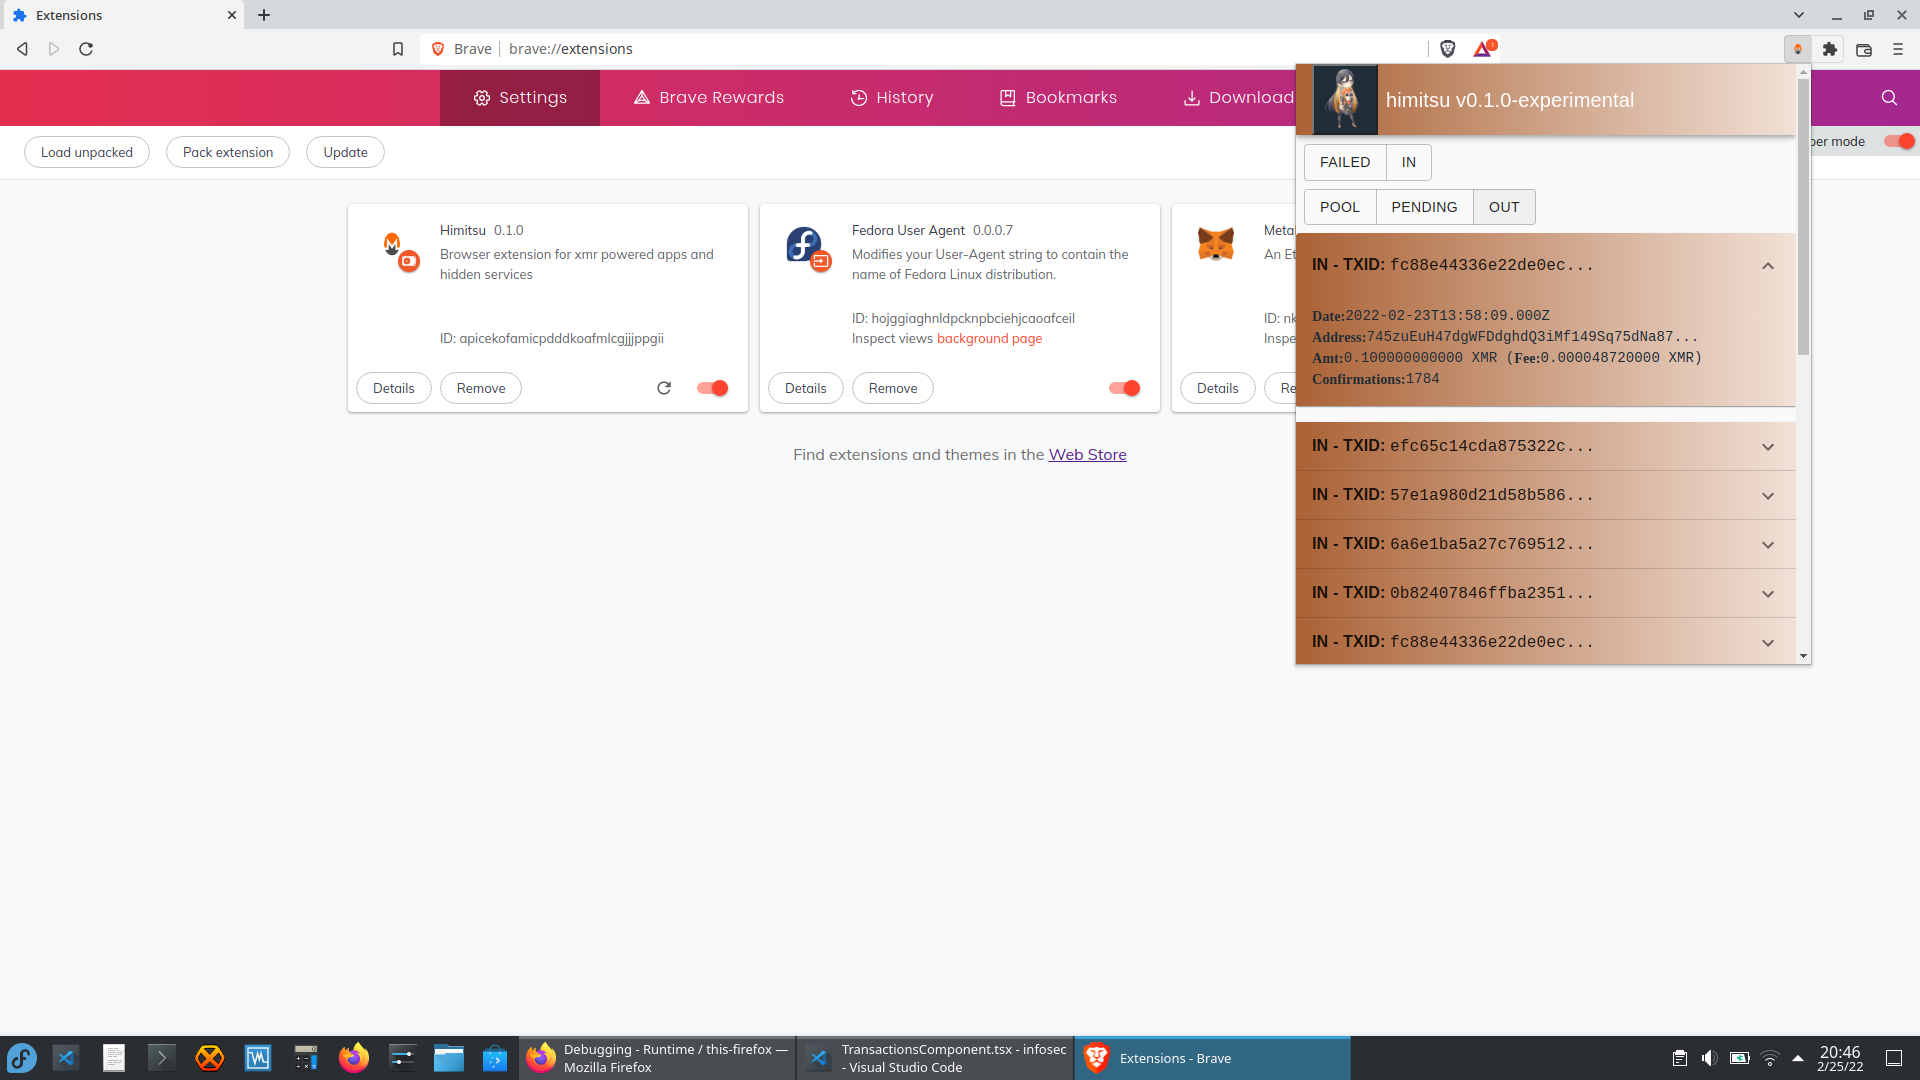
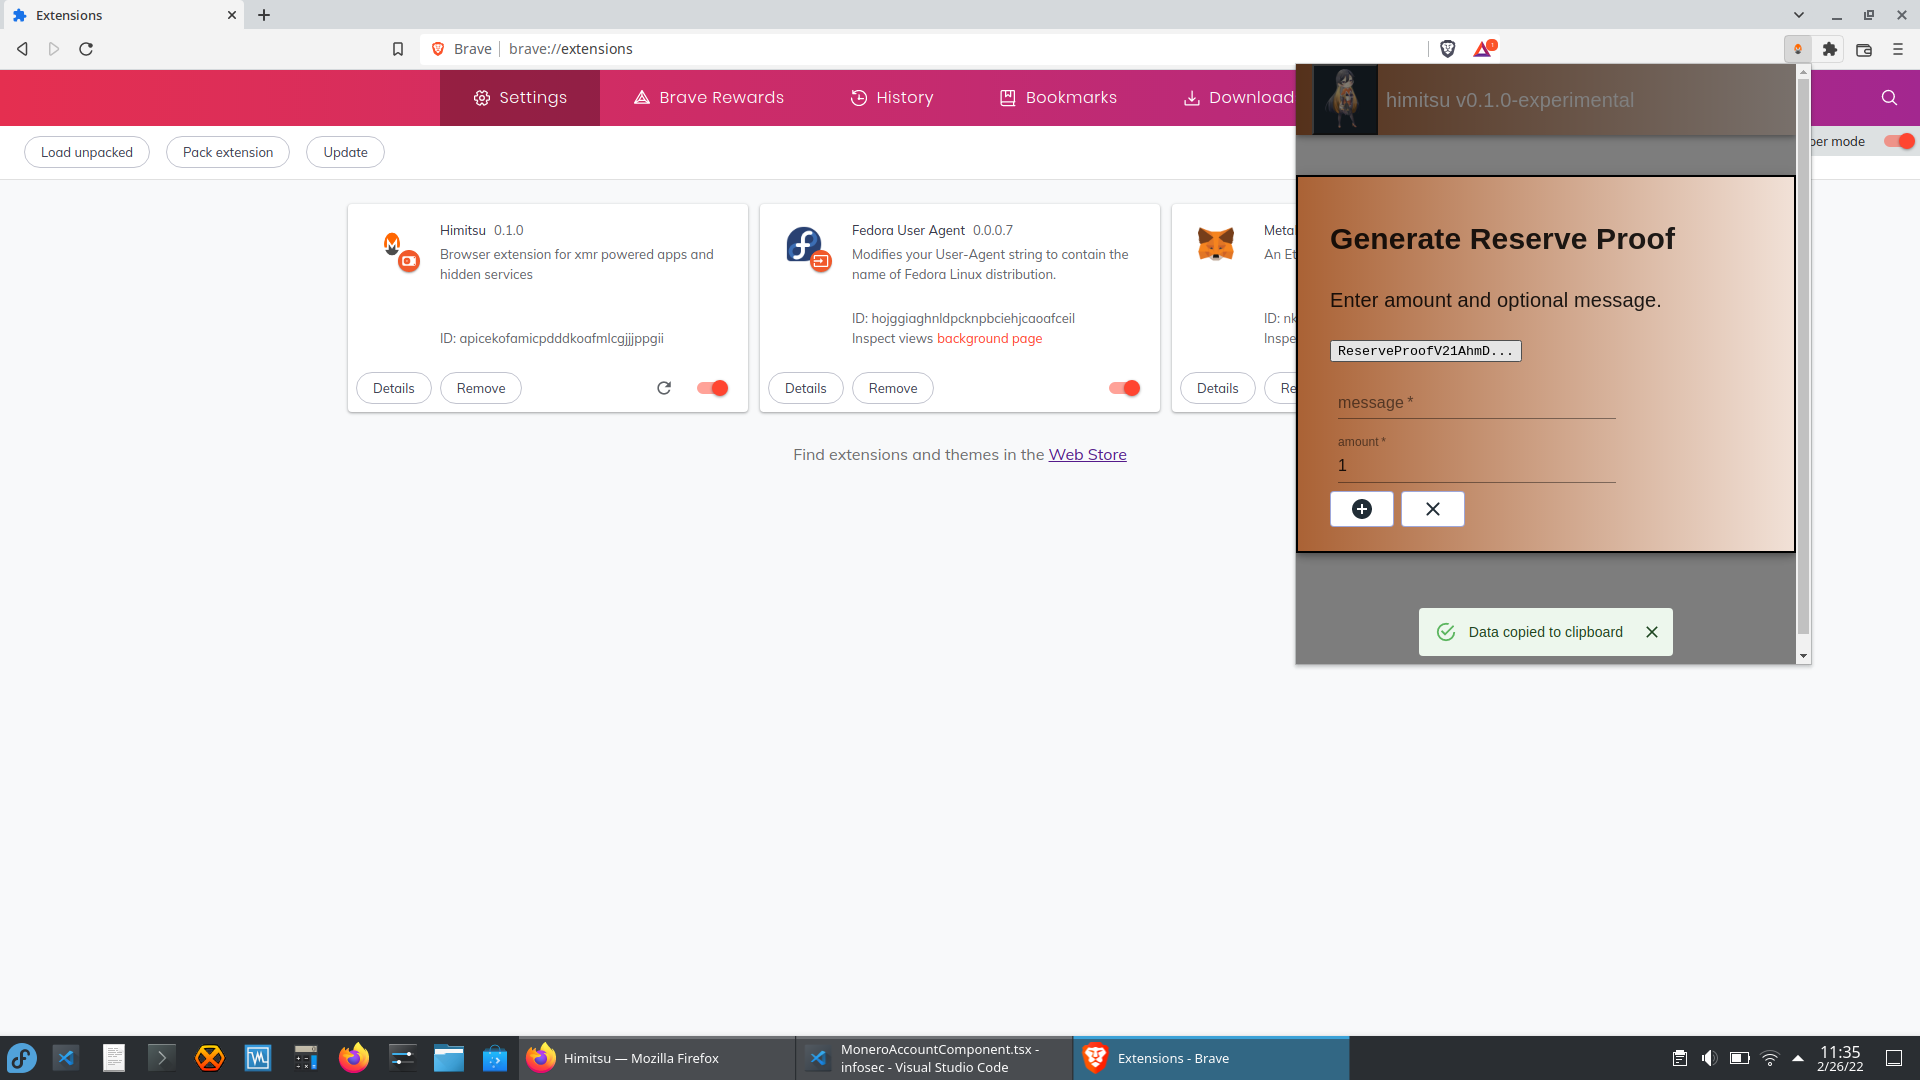
himitsu: add reserve proof generation

diff --git a/himitsu/src/Components/Monero/MoneroAccountComponent.tsx b/himitsu/src/Components/Monero/MoneroAccountComponent.tsx
@@ -38,14 +38,18 @@ const MoneroAccountComponent: React.FC = (): ReactElement => {
   const [unusedAddressAlert, setUnusedAddressAlert] = useState(false);
   const [isGeneratingSubAddress, setIsGeneratingSubAddress] = useState(false);
   const [isTransferring, setIsTransferring] = useState(false);
+  const [isGeneratingProof, setIsGeneratingProof] = useState(false);
   const [transferSuccess, setIsTransferSuccess] = useState(false);
   const [invalidAmount, setIsInvalidAmount] = useState(false);
   const [rpcConnectionFailure, setRpcConnectionFailure] = useState(false);
+  const [proofGenerated, setProofGenerated] = useState(false);
   const [values, setValues] = React.useState<Interfaces.AccountState>({
     label: '',
     amount: 0,
     sendTo: '',
     hash: '',
+    reserveProof: '',
+    message: '',
   });
   const host = `http://${gInit.rpcHost}/json_rpc`;
 
@@ -71,6 +75,11 @@ const MoneroAccountComponent: React.FC = (): ReactElement => {
 
   const handleRpcConnectionFailure = (): void => {
     setRpcConnectionFailure(!rpcConnectionFailure);
+  };
+
+  const handleProofGeneration = (): void => {
+    setIsGeneratingProof(false);
+    setProofGenerated(!proofGenerated);
   };
 
   const handleChange = (prop: keyof Interfaces.AccountState) => (event:
@@ -162,6 +171,15 @@ const MoneroAccountComponent: React.FC = (): ReactElement => {
     handleSubAddressUpdate();
   };
 
+  const generateReserveProof = async (): Promise<void> => {
+    const proofBody: Interfaces.GetReserveProofRequest = Constants.GET_RESERVE_PROOF_REQUEST;
+    proofBody.params.amount = values.amount * Constants.PICO;
+    const proof: Interfaces.GetReserveProofResponse = await (
+      await axios.post(host, proofBody)
+    ).data;
+    setValues({ ...values, reserveProof: proof.result.signature });
+  };
+
   const transfer = async (): Promise<void> => {
     const vBody: Interfaces.ValidateAddressRequest = Constants.VALIDATE_ADDRESS_REQUEST;
     vBody.params.address = values.sendTo.trim();
@@ -180,7 +198,7 @@ const MoneroAccountComponent: React.FC = (): ReactElement => {
       handleTransferSuccess();
       loadXmrBalance();
     }
-    if (!vAddress.result.valid || vAddress.result.nettype === 'mainnet') {
+    if (!vAddress.result.valid || vAddress.result.nettype === 'mainnet') { // TODO: enable mainnet
       handleInvalidAddress();
     }
     if (!isValidAmt) {
@@ -330,6 +348,73 @@ const MoneroAccountComponent: React.FC = (): ReactElement => {
             </Fade>
           </Modal>
         )}
+      {/* Reserve Proof modal */}
+      { isGeneratingProof
+        && (
+          <Modal
+            aria-labelledby="transition-modal-title"
+            aria-describedby="transition-modal-description"
+            className={classes.modal}
+            open={isGeneratingProof}
+            closeAfterTransition
+          >
+            <Fade in={isGeneratingProof}>
+              <div className={clsx(classes.paper, 'altBg')}>
+                <h2 id="transition-modal-title">
+                  Generate Reserve Proof
+                </h2>
+                <p id="transition-modal-description">
+                  Enter amount and optional message.
+                </p>
+                <div>
+                  <CopyToClipboard text={values.reserveProof}>
+                    <button type="button" onClick={handleCopy}>
+                      <code className={classes.proof}>
+                        {`${values.reserveProof.slice(0, 19)}...`}
+                      </code>
+                    </button>
+                  </CopyToClipboard>
+                </div>
+                <TextField
+                  label="message"
+                  type="text"
+                  required
+                  id="standard-start-adornment"
+                  className={clsx(classes.margin, classes.textField)}
+                  onChange={handleChange('message')}
+                />
+                <TextField
+                  label="amount"
+                  type="number"
+                  required
+                  id="standard-start-adornment"
+                  className={clsx(classes.margin, classes.textField)}
+                  onChange={handleChange('amount')}
+                />
+                <br />
+                <Button
+                  className={classes.send}
+                  disabled={values.amount * Constants.PICO > gAccount.unlockedBalance
+                    || values.amount <= 0}
+                  onClick={() => { generateReserveProof(); }}
+                  variant="outlined"
+                  color="primary"
+                >
+                  <AddCircle />
+                </Button>
+                {' '}
+                <Button
+                  className={classes.send}
+                  onClick={() => { setIsGeneratingProof(false); }}
+                  variant="outlined"
+                  color="primary"
+                >
+                  <CloseRounded />
+                </Button>
+              </div>
+            </Fade>
+          </Modal>
+        )}
       <div className={classes.unlockedBalance}>
         <LockOpen className={classes.icon} />
         <h1>
@@ -385,7 +470,7 @@ const MoneroAccountComponent: React.FC = (): ReactElement => {
         </Button>
         <Button
           className={classes.send}
-          // onClick={() => { getSubAddress(); }}
+          onClick={() => { setIsGeneratingProof(true); }}
           variant="outlined"
           color="primary"
           size="medium"
@@ -396,7 +481,7 @@ const MoneroAccountComponent: React.FC = (): ReactElement => {
       {/* food court! */}
       <Snackbar open={copy} autoHideDuration={2000} onClose={handleCopy}>
         <Alert onClose={handleCopy} severity="success">
-          Address copied to clipboard
+          Data copied to clipboard
         </Alert>
       </Snackbar>
       <Snackbar open={subAddressUpdated} autoHideDuration={10000} onClose={handleSubAddressUpdate}>
@@ -468,6 +553,18 @@ const MoneroAccountComponent: React.FC = (): ReactElement => {
           severity="error"
         >
           {`${values.amount} is not valid`}
+        </Alert>
+      </Snackbar>
+      <Snackbar
+        open={proofGenerated}
+        autoHideDuration={5000}
+        onClose={handleProofGeneration}
+      >
+        <Alert
+          onClose={handleProofGeneration}
+          severity="info"
+        >
+          Generating reserve proof...
         </Alert>
       </Snackbar>
     </div>

diff --git a/himitsu/src/Config/interfaces.tsx b/himitsu/src/Config/interfaces.tsx
@@ -28,6 +28,8 @@ export interface AccountState {
   amount: number;
   sendTo: string;
   hash: string;
+  reserveProof: string;
+  message: string;
 }
 
 export interface ContactState {
@@ -108,6 +110,12 @@ interface ShowTransfersParams {
   account_index: number;
 }
 
+interface GetReserveProofParams {
+  all: boolean;
+  account_index: number;
+  amount: number;
+}
+
 export type ShowAddressParams = ShowBalanceParams;
 
 /* RPC Request Interfaces */
@@ -157,6 +165,10 @@ export interface DeleteAddressBookRequest extends RequestContext {
 
 export interface ShowTransfersRequest extends RequestContext {
   params: ShowTransfersParams;
+}
+
+export interface GetReserveProofRequest extends RequestContext {
+  params: GetReserveProofParams;
 }
 
 /* RPC Result Interfaces */
@@ -261,6 +273,11 @@ interface ShowTransferResult {
   pool: Transfer[];
   out: Transfer[];
 }
+
+interface GetReserveProofResult {
+  signature: string;
+}
+
 /* RPC Response Interfaces */
 export interface ShowBalanceResponse extends RequestContext {
   result: ShowBalanceResult;
@@ -296,4 +313,8 @@ export interface AddAddressBookResponse extends RequestContext {
 
 export interface ShowTransfersResponse extends RequestContext {
   result: ShowTransferResult;
+}
+
+export interface GetReserveProofResponse extends RequestContext {
+  result: GetReserveProofResult;
 }

diff --git a/himitsu/src/Components/Monero/styles.tsx b/himitsu/src/Components/Monero/styles.tsx
@@ -3,6 +3,7 @@ import { makeStyles, Theme, createStyles } from '@material-ui/core/styles';
 export const useStyles = makeStyles((theme: Theme) => createStyles({
   modal: {
     display: 'flex',
+    wrap: 'wrap',
     alignItems: 'center',
     justifyContent: 'center',
   },
@@ -74,5 +75,9 @@ export const useStyles = makeStyles((theme: Theme) => createStyles({
     fontFamily: 'comic',
     fontSize: '1em',
     color: '#212D36',
+  },
+  proof: {
+    cursor: 'pointer',
+    fontSize: '1em',
   },
 }));

diff --git a/himitsu/src/Config/constants.tsx b/himitsu/src/Config/constants.tsx
@@ -192,3 +192,13 @@ export const SHOW_TRANSFERS_OUT_REQUEST: Interfaces.ShowTransfersRequest = {
     out: true,
   },
 };
+
+export const GET_RESERVE_PROOF_REQUEST: Interfaces.GetReserveProofRequest = {
+  ...context,
+  method: 'get_reserve_proof',
+  params: {
+    all: false,
+    amount: 0,
+    account_index: 0,
+  },
+};
